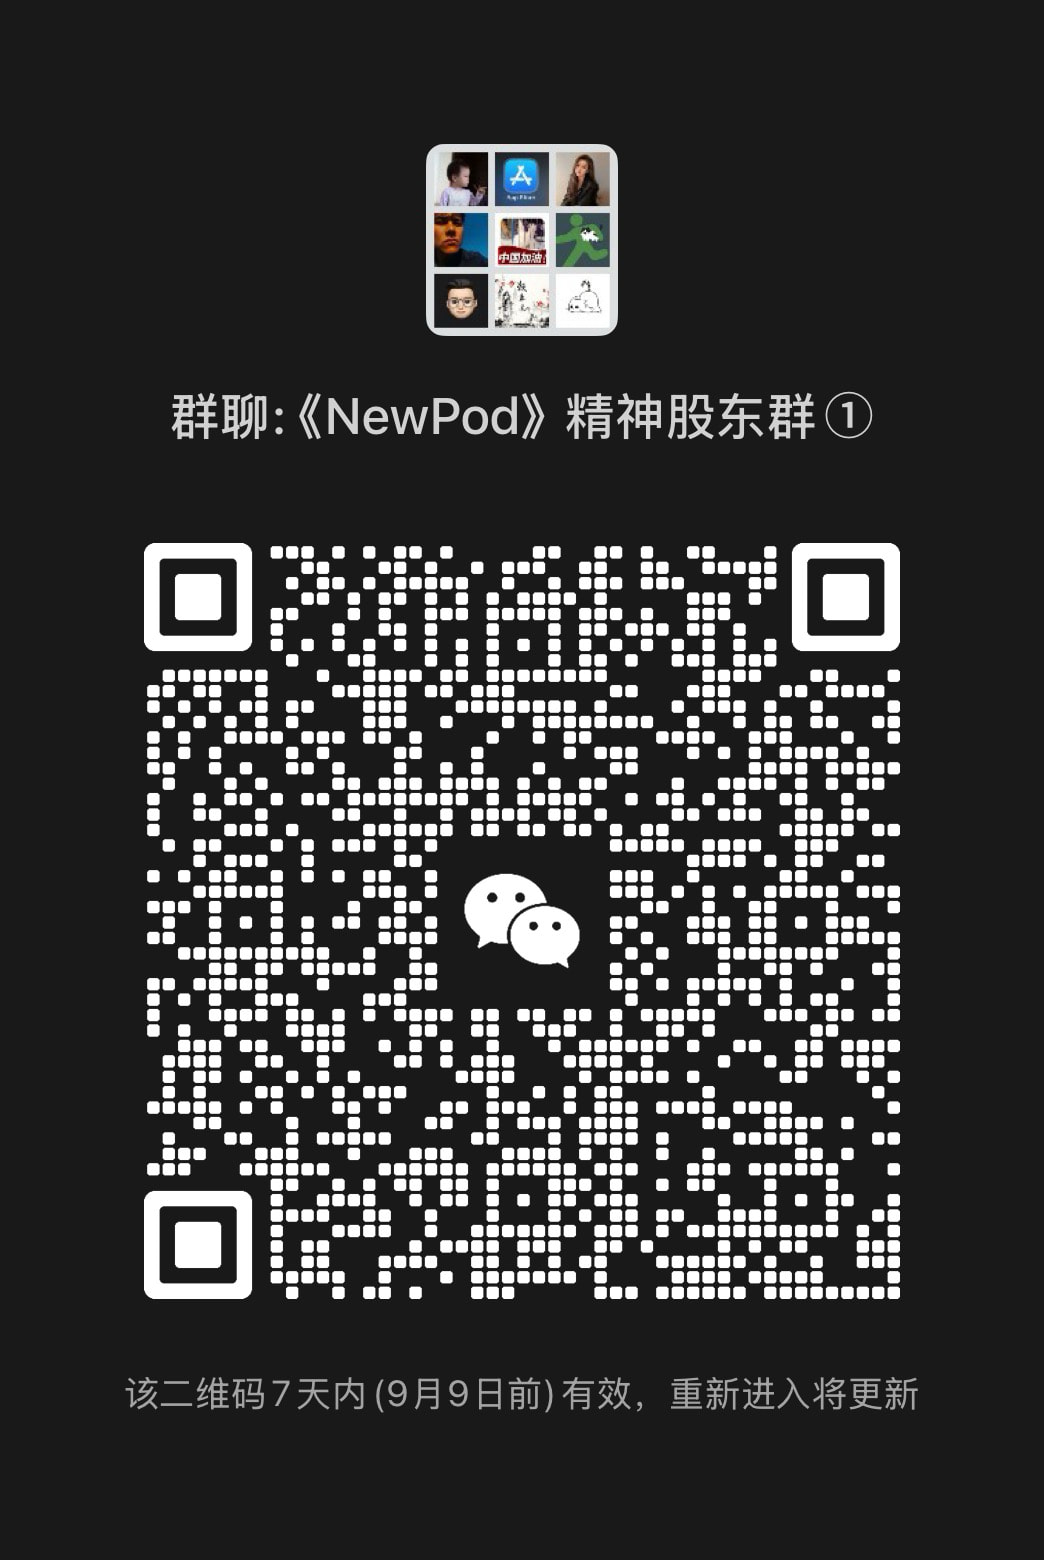
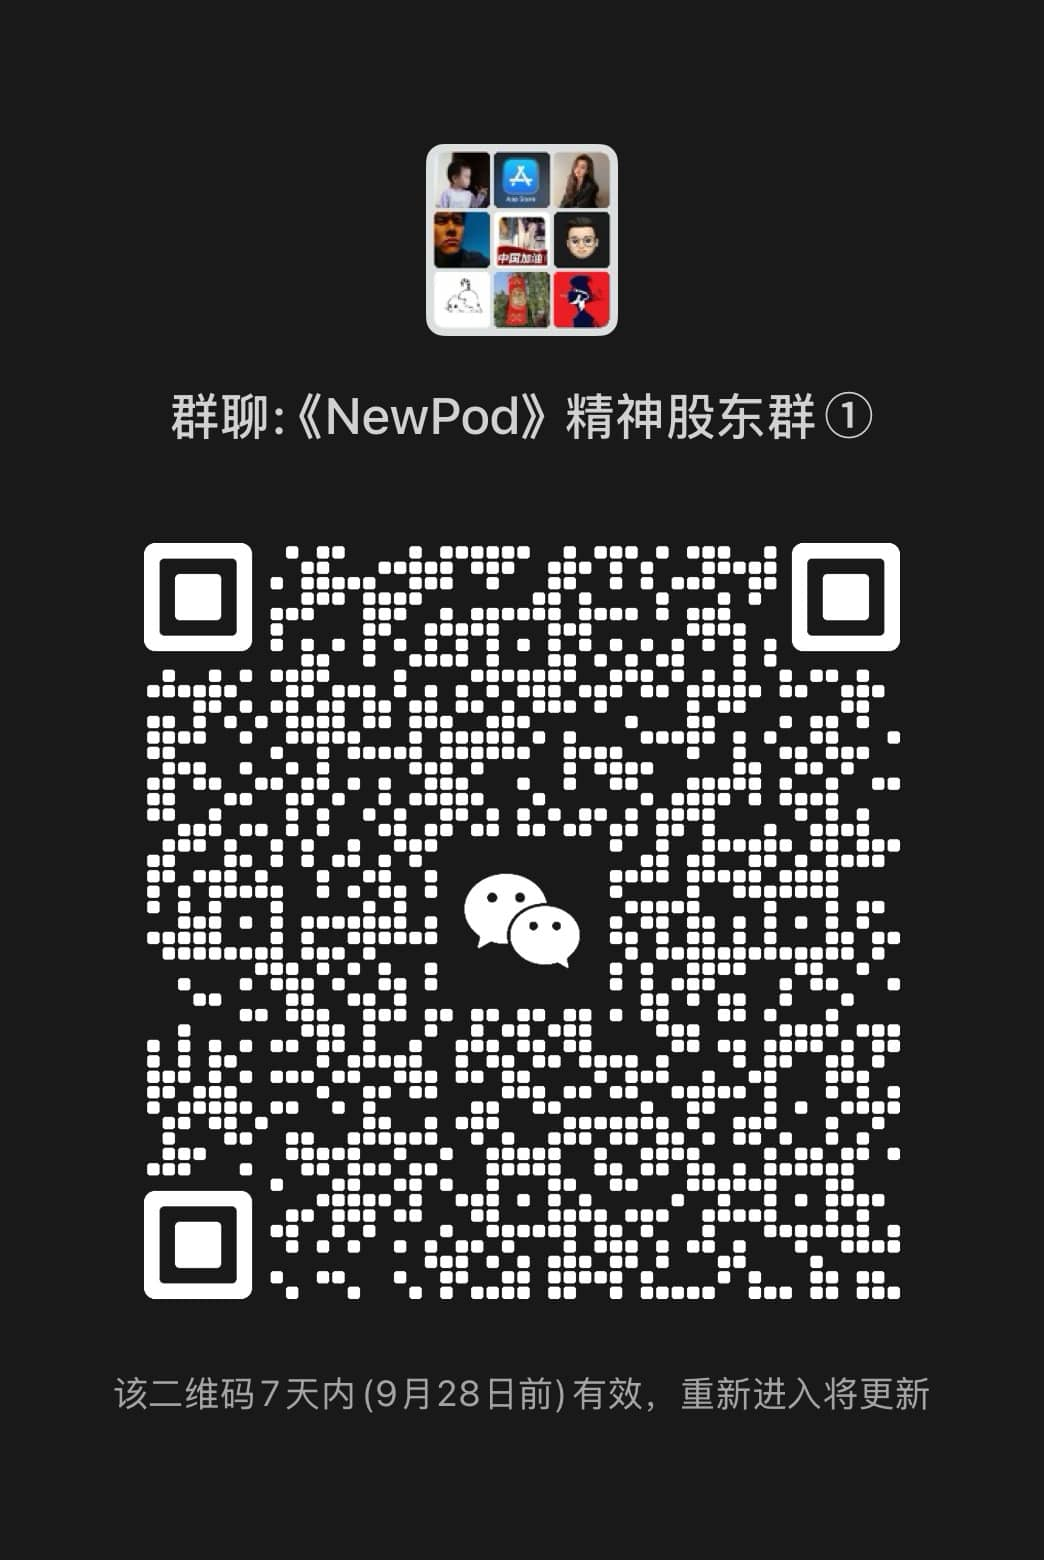
NewPod用户群更新

diff --git a/user/newpod/group/index.html b/user/newpod/group/index.html
@@ -267,7 +267,7 @@
 
       <div class="expiry">
         <span class="expiry-dot"></span>
-        <span>二维码有效期至 9月9日</span>
+        <span>二维码有效期至 9月28日</span>
       </div>
     </div>
 
